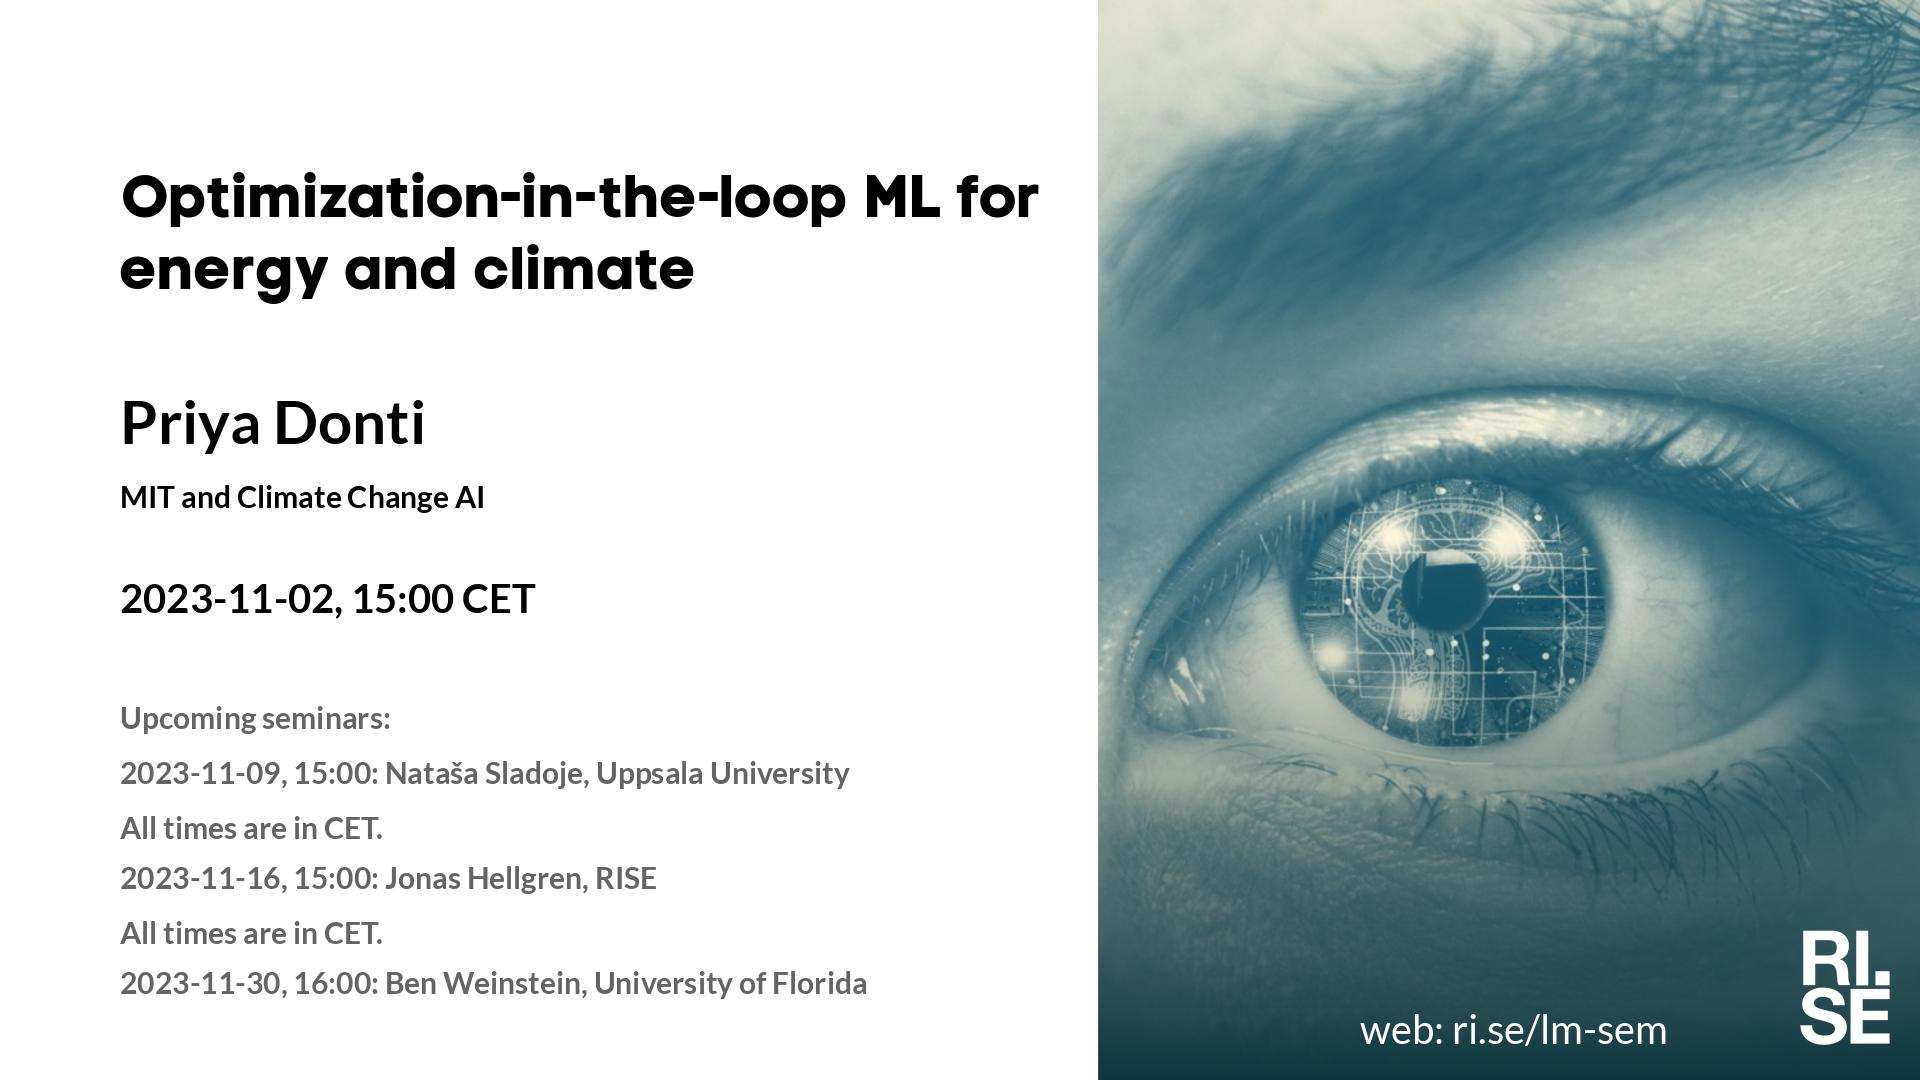
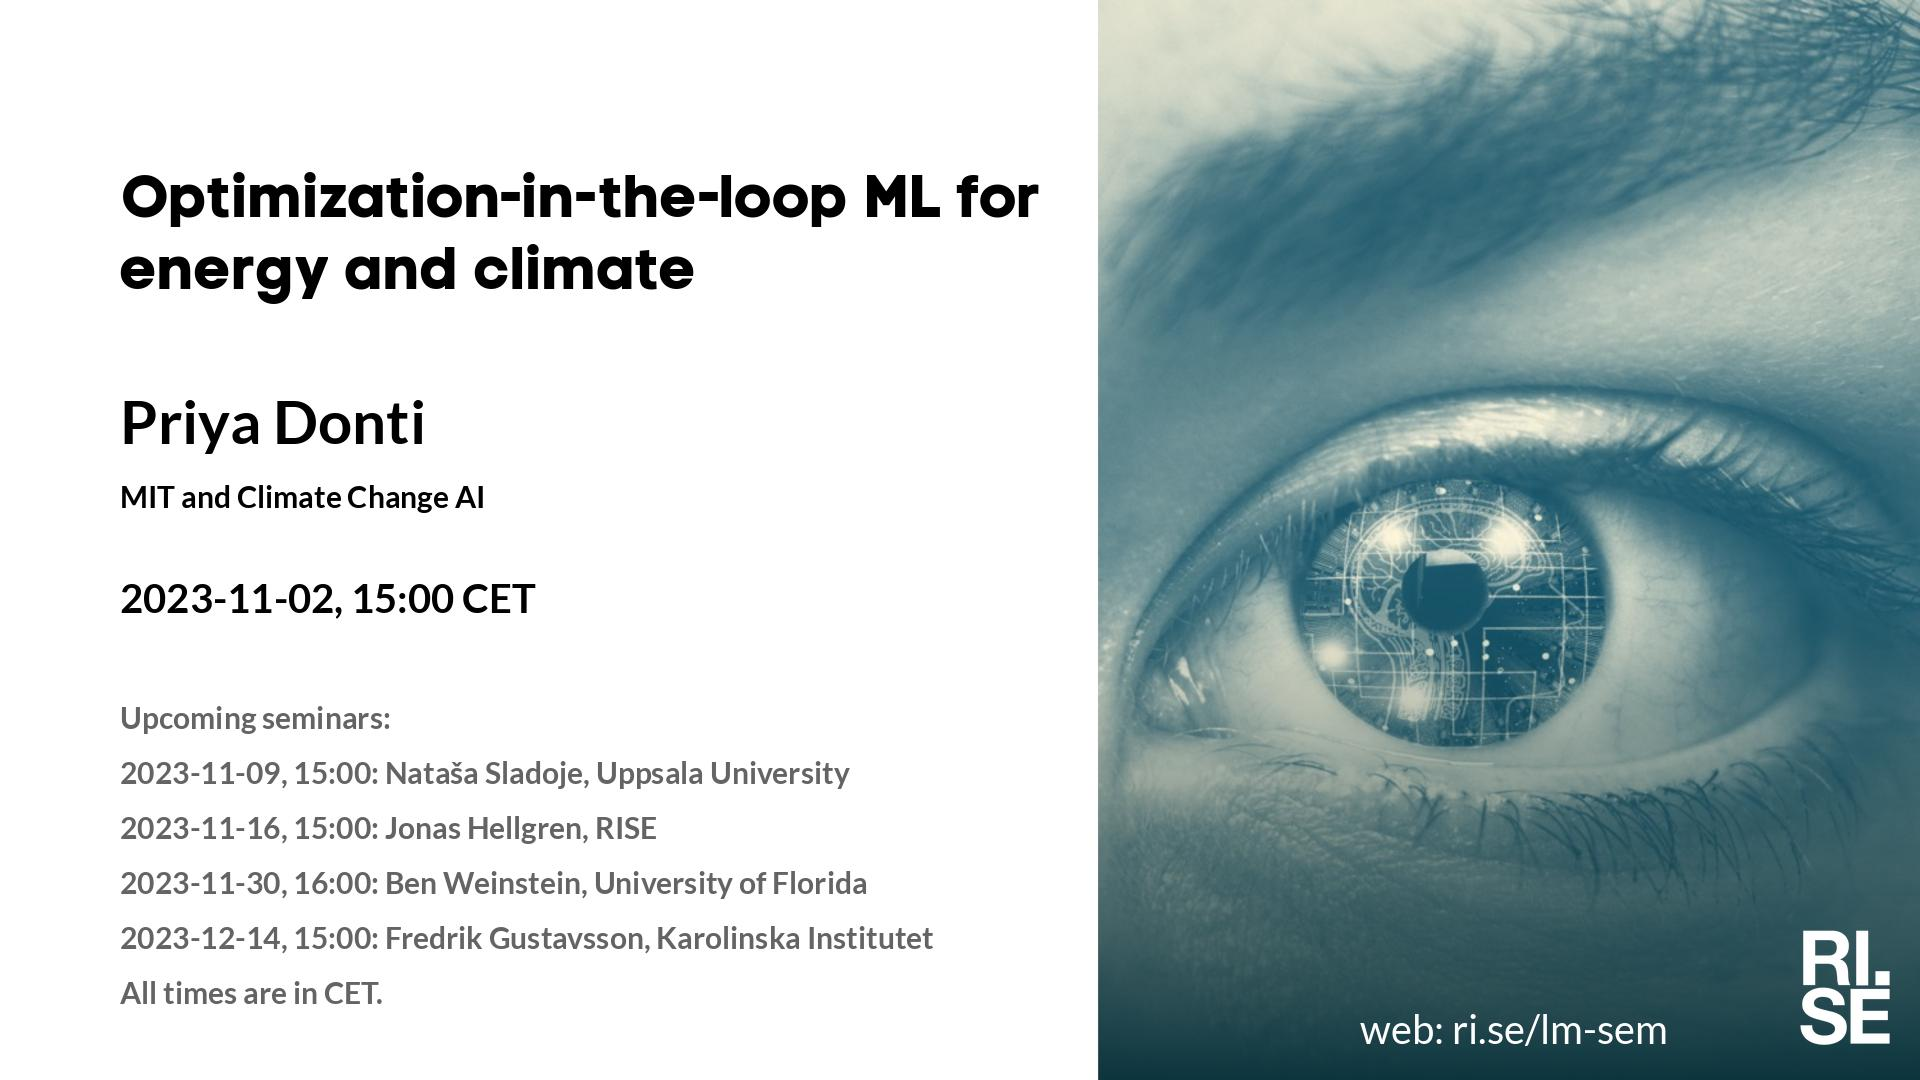
Updated plan on web site.

Changed region(s): [[0.0625, 0.8556, 0.5, 0.9472], [0.0625, 0.7333, 0.4688, 0.825]]

diff --git a/lm/2023-11-02.md b/lm/2023-11-02.md
@@ -21,10 +21,10 @@ Welcome to this week's Learning Machines seminar.
 **Upcoming seminars:**
 
 * 2023-11-09, 15:00: Nataša Sladoje, Uppsala University
-* All times are in CET.
 * 2023-11-16, 15:00: Jonas Hellgren, RISE
-* All times are in CET.
 * 2023-11-30, 16:00: Ben Weinstein, University of Florida
+* 2023-12-14, 15:00: Fredrik Gustavsson, Karolinska Institutet
+* All times are in CET.
 
 More information and coming seminars: [https://ri.se/lm-sem](https://ri.se/lm-sem)
 

diff --git a/lm/2023-10-19.md b/lm/2023-10-19.md
@@ -21,10 +21,10 @@ Welcome to this week's Learning Machines seminar.
 **Upcoming seminars:**
 
 * 2023-11-02, 15:00: Priya Donti, MIT and Climate Change AI
-* All times are in CET.
 * 2023-11-09, 15:00: Nataša Sladoje, Uppsala University
-* All times are in CET.
 * 2023-11-16, 15:00: Jonas Hellgren, RISE
+* 2023-11-30, 16:00: Ben Weinstein, University of Florida
+* All times are in CET.
 
 More information and coming seminars: [https://ri.se/lm-sem](https://ri.se/lm-sem)
 
